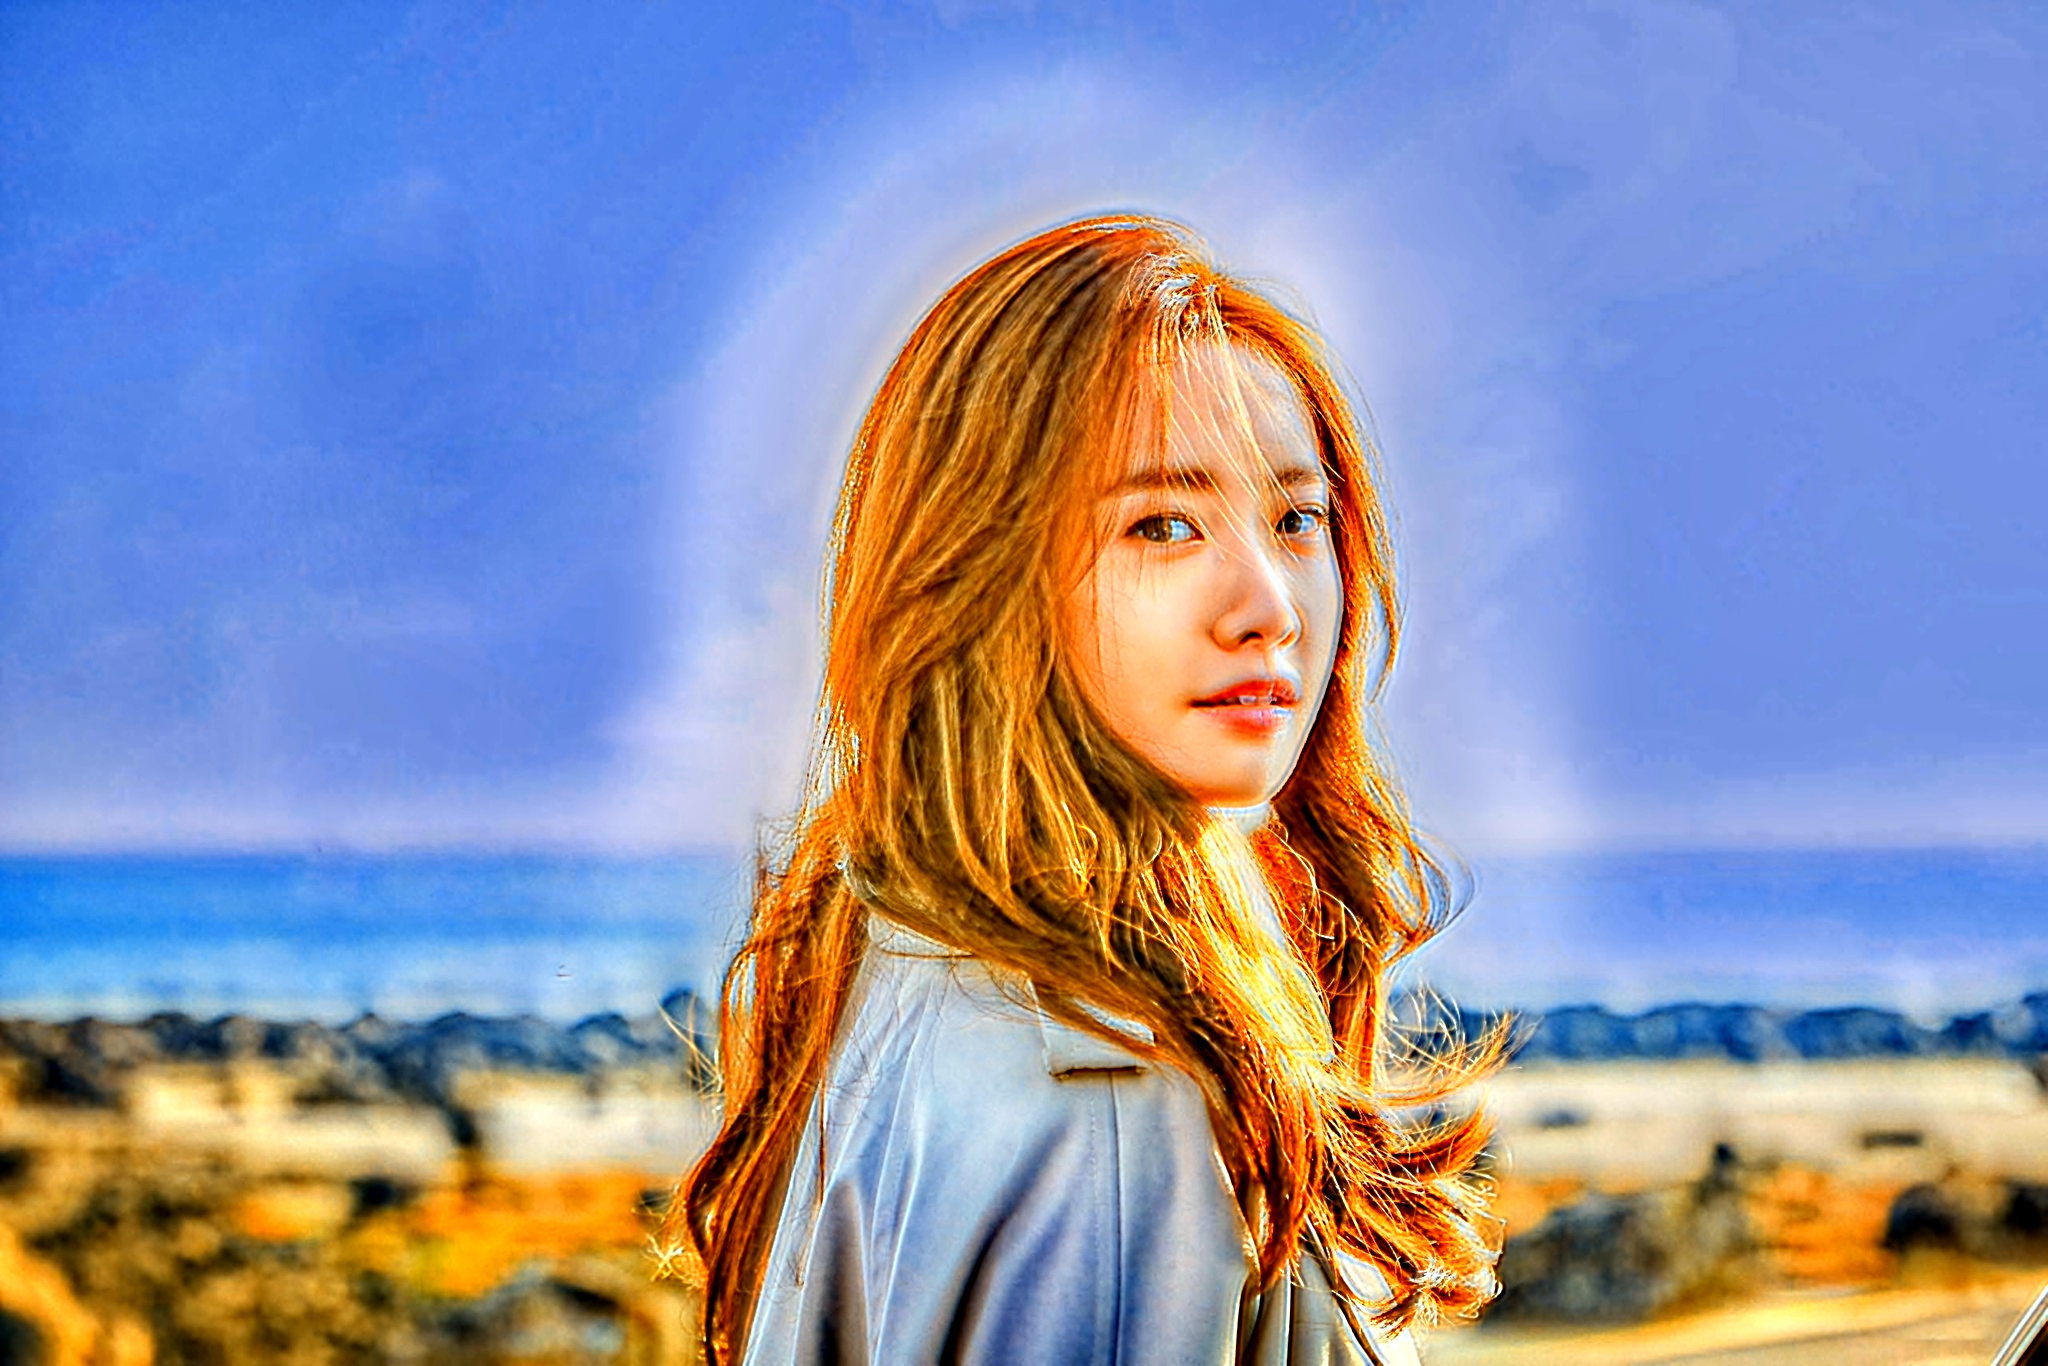
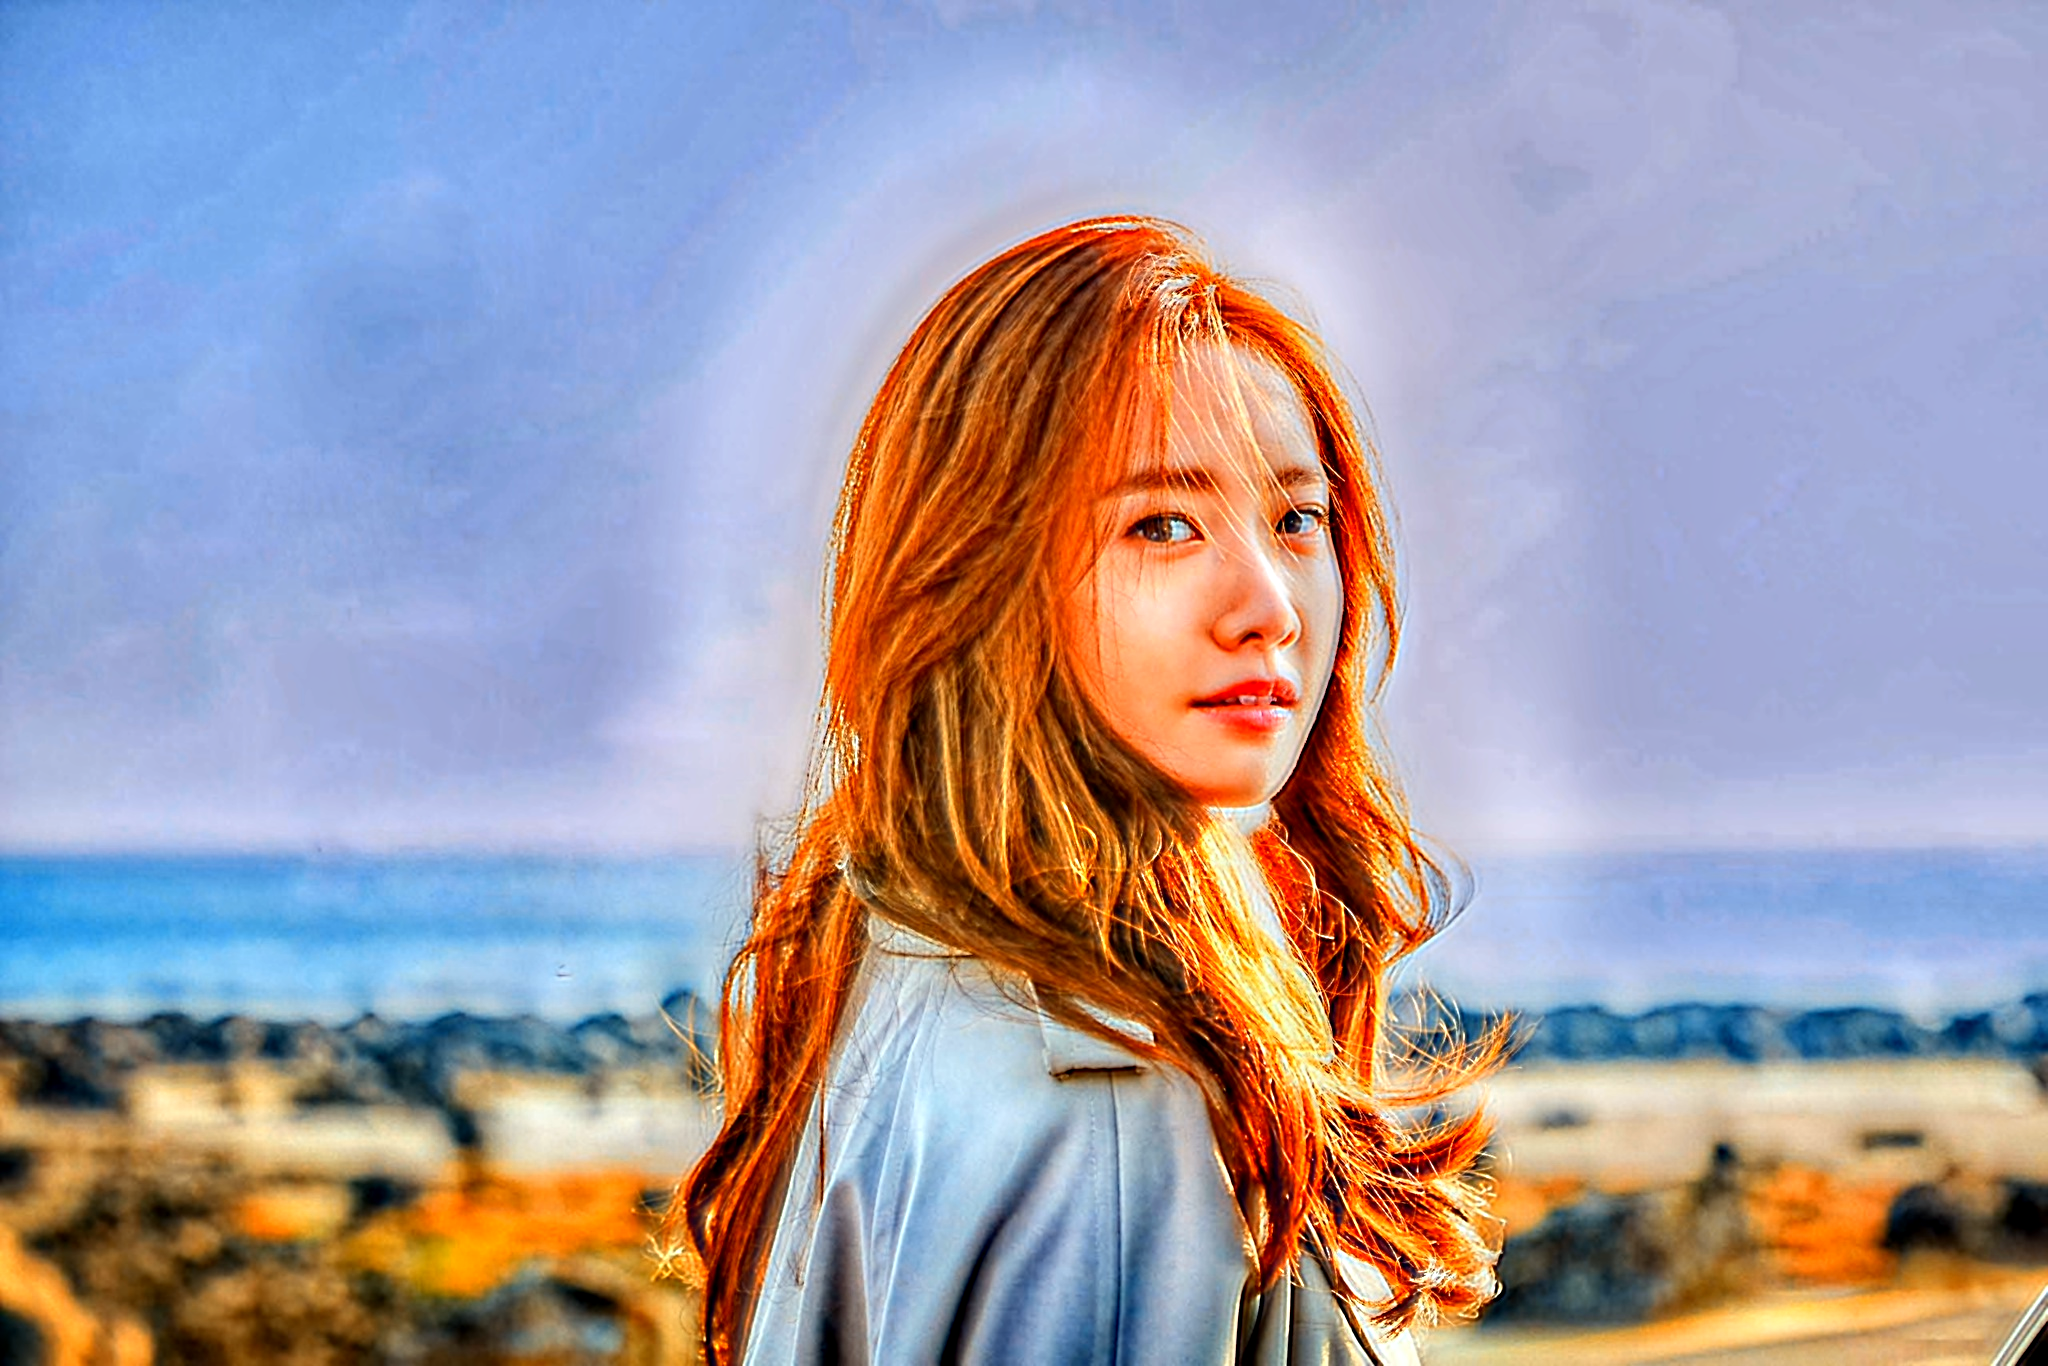
fix RGB to BGR

diff --git a/LPGAN/TF.py b/LPGAN/TF.py
@@ -73,26 +73,26 @@ def normalizeImage(img, max_length):
 def getInputPhoto(file_name):
     print(current_time() + ', [getInputPhoto]: file_name = %s' % (FLAGS['folder_input'] + file_name))
     file_name_without_ext = os.path.splitext(file_name)[0]
-    input_img = np.array(Image.open(FLAGS['folder_input'] + file_name))
+    input_img = np.array(Image.open(FLAGS['folder_input'] + file_name))[:, :, ::-1]
     os.remove(FLAGS['folder_input'] + file_name)
     if checkValidImg(input_img):
         h, w, _ = input_img.shape
         resize_input_img = normalizeImage(input_img, FLAGS['data_max_image_size']) if max(h, w) > FLAGS['data_max_image_size'] else input_img
         file_name = file_name_without_ext + FLAGS['data_output_ext']
-        Image.fromarray(resize_input_img).save(FLAGS['folder_input'] + file_name_without_ext + '.png')
+        Image.fromarray(resize_input_img[:, :, ::-1]).save(FLAGS['folder_input'] + file_name_without_ext + '.png')
         return file_name
     else:
         return None
 
 def processImg(file_in_name, file_out_name_without_ext):
-    input_img = np.array(Image.open(FLAGS['folder_input'] + file_in_name))
     # loaded_graph = tf.Graph()
     with tf.compat.v1.Session() as sess:
         sess.run(tf.compat.v1.global_variables_initializer())
         sess.run(tf.compat.v1.local_variables_initializer())
-        tf.saved_model.loader.load(sess, ["train", "serve"], FLAGS['load_saved_model_path'])
-        # saver.restore(sess, FLAGS['load_model_path_new'])
-
+        # tf.saved_model.loader.load(sess, ["train", "serve"], FLAGS['load_saved_model_path'])
+        saver.restore(sess, FLAGS['load_model_path_new'])
+        
+        input_img = np.array(Image.open(FLAGS['folder_input'] + file_in_name))[:, :, ::-1]
         resize_input_img = normalizeImage(input_img, FLAGS['data_image_size'])
         resize_input_img, _, _ = random_pad_to_size(resize_input_img, FLAGS['data_image_size'], None, True, False)
         resize_input_img = resize_input_img[None, :, :, :]
@@ -126,6 +126,6 @@ def processImg(file_in_name, file_out_name_without_ext):
         enhance_test_img = enhance_test_img[:h, :w, :]
         enhance_test_img = safe_casting(enhance_test_img * tf.as_dtype(FLAGS['data_input_dtype']).max, FLAGS['data_input_dtype'])
         enhanced_img_file_name = file_out_name_without_ext + FLAGS['data_output_ext']
-        Image.fromarray(enhance_test_img).save(FLAGS['folder_test_img'] + file_out_name_without_ext + '.png')
+        Image.fromarray(enhance_test_img[:, :, ::-1]).save(FLAGS['folder_test_img'] + file_out_name_without_ext + '.png')
 
         return enhanced_img_file_name

diff --git a/LPGAN/TF_HDR.py b/LPGAN/TF_HDR.py
@@ -75,13 +75,13 @@ def normalizeImage(img, max_length):
 def getInputPhoto(file_name):
     print(current_time() + ', [getInputPhoto]: file_name = %s' % (FLAGS['folder_input'] + file_name))
     file_name_without_ext = os.path.splitext(file_name)[0]
-    input_img = np.array(Image.open(FLAGS['folder_input'] + file_name))
+    input_img = np.array(Image.open(FLAGS['folder_input'] + file_name))[:, :, ::-1]
     os.remove(FLAGS['folder_input'] + file_name)
     if checkValidImg(input_img):
         h, w, _ = input_img.shape
         resize_input_img = normalizeImage(input_img, FLAGS['data_max_image_size']) if max(h, w) > FLAGS['data_max_image_size'] else input_img
         file_name = file_name_without_ext + FLAGS['data_output_ext']
-        Image.fromarray(resize_input_img).save(FLAGS['folder_input'] + file_name_without_ext + '.png')
+        Image.fromarray(resize_input_img[:, :, ::-1]).save(FLAGS['folder_input'] + file_name_without_ext + '.png')
         return file_name
     else:
         return None
@@ -92,10 +92,10 @@ def processImg(file_in_name, file_out_name_without_ext):
     with tf.compat.v1.Session() as sess:
         sess.run(tf.compat.v1.global_variables_initializer())
         sess.run(tf.compat.v1.local_variables_initializer())
-        tf.saved_model.loader.load(sess, ["train", "serve"], FLAGS['load_saved_model_path'])
-        # saver.restore(sess, FLAGS['load_model_path_new'])
+        # tf.saved_model.loader.load(sess, ["train", "serve"], FLAGS['load_saved_model_path'])
+        saver.restore(sess, FLAGS['load_model_path_new'])
 
-        input_img = np.array(Image.open(FLAGS['folder_input'] + file_in_name))
+        input_img = np.array(Image.open(FLAGS['folder_input'] + file_in_name))[:, :, ::-1]
         resize_input_img = normalizeImage(input_img, FLAGS['data_image_size'])
         resize_input_img, _, _ = random_pad_to_size(resize_input_img, FLAGS['data_image_size'], None, True, False)
         resize_input_img = resize_input_img[None, :, :, :]
@@ -131,6 +131,6 @@ def processImg(file_in_name, file_out_name_without_ext):
         enhance_test_img = enhance_test_img[:h, :w, :]
         enhance_test_img = safe_casting(enhance_test_img * tf.as_dtype(FLAGS['data_input_dtype']).max, FLAGS['data_input_dtype'])
         enhanced_img_file_name = file_out_name_without_ext + FLAGS['data_output_ext']
-        Image.fromarray(enhance_test_img).save(FLAGS['folder_test_img'] + file_out_name_without_ext + '.png')
+        Image.fromarray(enhance_test_img[:, :, ::-1]).save(FLAGS['folder_test_img'] + file_out_name_without_ext + '.png')
 
         return enhanced_img_file_name

diff --git a/savemodel.py b/savemodel.py
@@ -1,11 +1,10 @@
 import os
 import tensorflow as tf
 
-trained_checkpoint_prefix = 'LPGAN/model/90.000-new.ckpt'
-export_dir = os.path.join('models', '1') # IMPORTANT: each model folder must be named '0', '1', ... Otherwise it will fail!
+trained_checkpoint_prefix = 'LPGAN/model/27.500-new.ckpt'
+export_dir = os.path.join('models', '27500') # IMPORTANT: each model folder must be named '0', '1', ... Otherwise it will fail!
 
-loaded_graph = tf.Graph()
-with tf.compat.v1.Session(graph=loaded_graph) as sess:
+with tf.compat.v1.Session() as sess:
     # Restore from checkpoint
     loader = tf.compat.v1.train.import_meta_graph(trained_checkpoint_prefix + '.meta')
     sess.run(tf.compat.v1.global_variables_initializer())

diff --git a/LPGAN/DATA_HDR.py b/LPGAN/DATA_HDR.py
@@ -17,7 +17,7 @@ FLAGS['format_log_step'] = '%.3f'
 FLAGS['root_path'] = os.path.dirname(__file__)
 FLAGS['load_model_path']     = FLAGS['root_path'] + '/model/' + '%s.ckpt'     % (FLAGS['format_log_step'] % FLAGS['num_epoch_HDR'])
 FLAGS['load_model_path_new'] = FLAGS['root_path'] + '/model/' + '%s-new.ckpt' % (FLAGS['format_log_step'] % FLAGS['num_epoch_HDR'])
-FLAGS['load_saved_model_path'] = 'models/1'
+FLAGS['load_saved_model_path'] = 'models/90000'
 FLAGS['data_output_ext'] = '.png'
 FLAGS['data_input_dtype']   = np.uint8
 FLAGS['data_compute_dtype'] = np.float32

diff --git a/LPGAN/DATA.py b/LPGAN/DATA.py
@@ -17,7 +17,7 @@ FLAGS['format_log_step'] = '%.3f'
 FLAGS['root_path'] = os.path.dirname(__file__)
 FLAGS['load_model_path']     = FLAGS['root_path'] + '/model/' + '%s.ckpt'     % (FLAGS['format_log_step'] % FLAGS['num_epoch'])
 FLAGS['load_model_path_new'] = FLAGS['root_path'] + '/model/' + '%s-new.ckpt' % (FLAGS['format_log_step'] % FLAGS['num_epoch'])
-FLAGS['load_saved_model_path'] = 'models/0'
+FLAGS['load_saved_model_path'] = 'models/27500'
 FLAGS['data_output_ext'] = '.png'
 FLAGS['data_input_dtype']   = np.uint8
 FLAGS['data_compute_dtype'] = np.float32

diff --git a/enhance.py b/enhance.py
@@ -4,7 +4,7 @@ import os
 UPLOAD_FOLDER = 'static/data/input'
 PROCESSED_FOLDER = 'static/data/output'
 
-photo = 'news.png'
+photo = '86cbc4e50304576bc52092b6b21655c7_l.png'
 file_name = TF.getInputPhoto(photo)
 
 print(FUNCTION.current_time() + "Processing image " + file_name)
